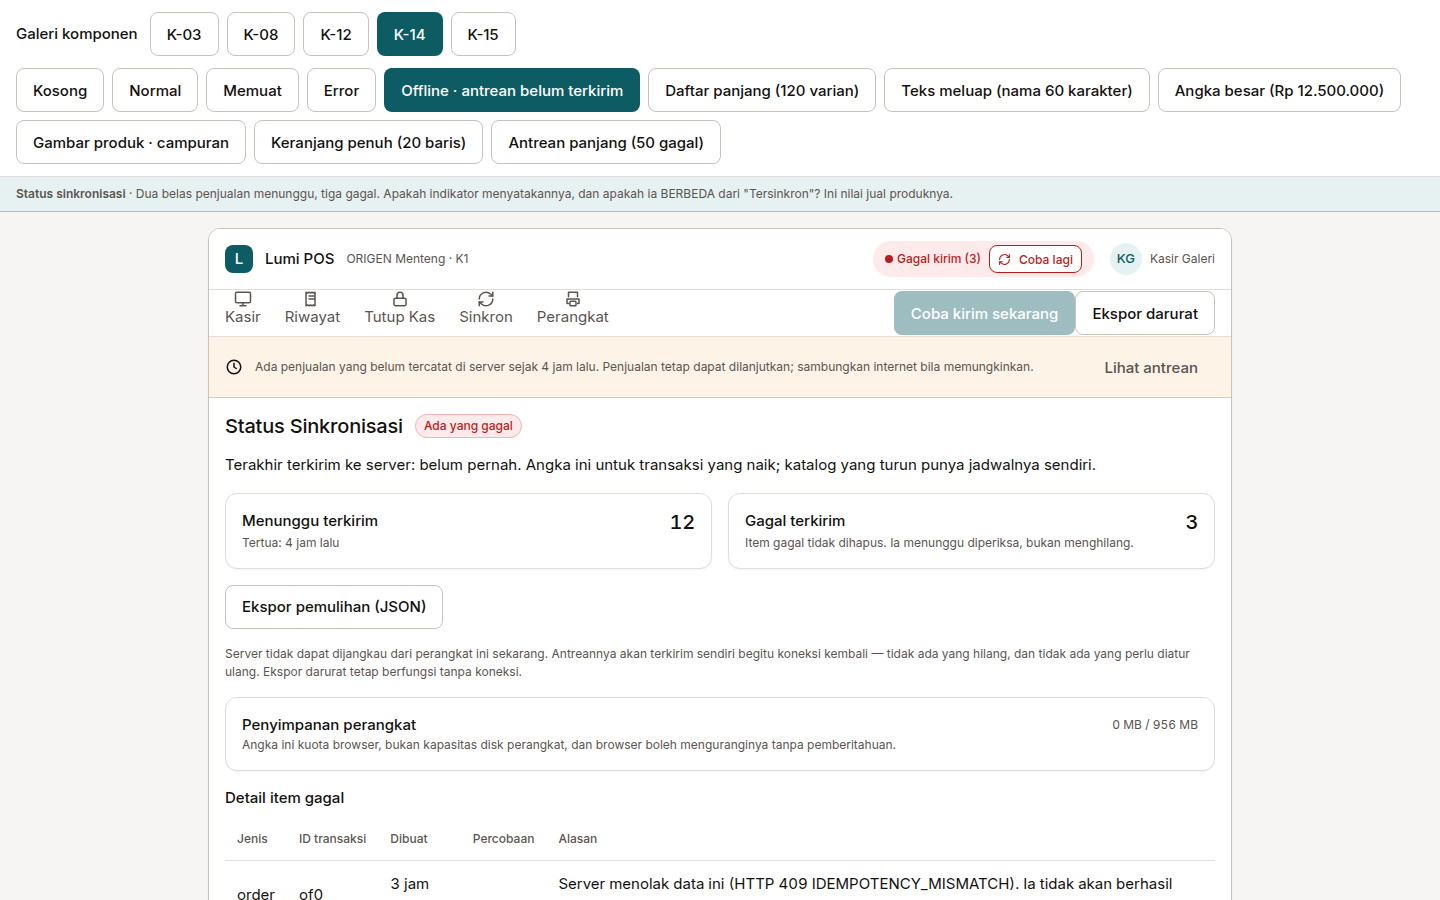
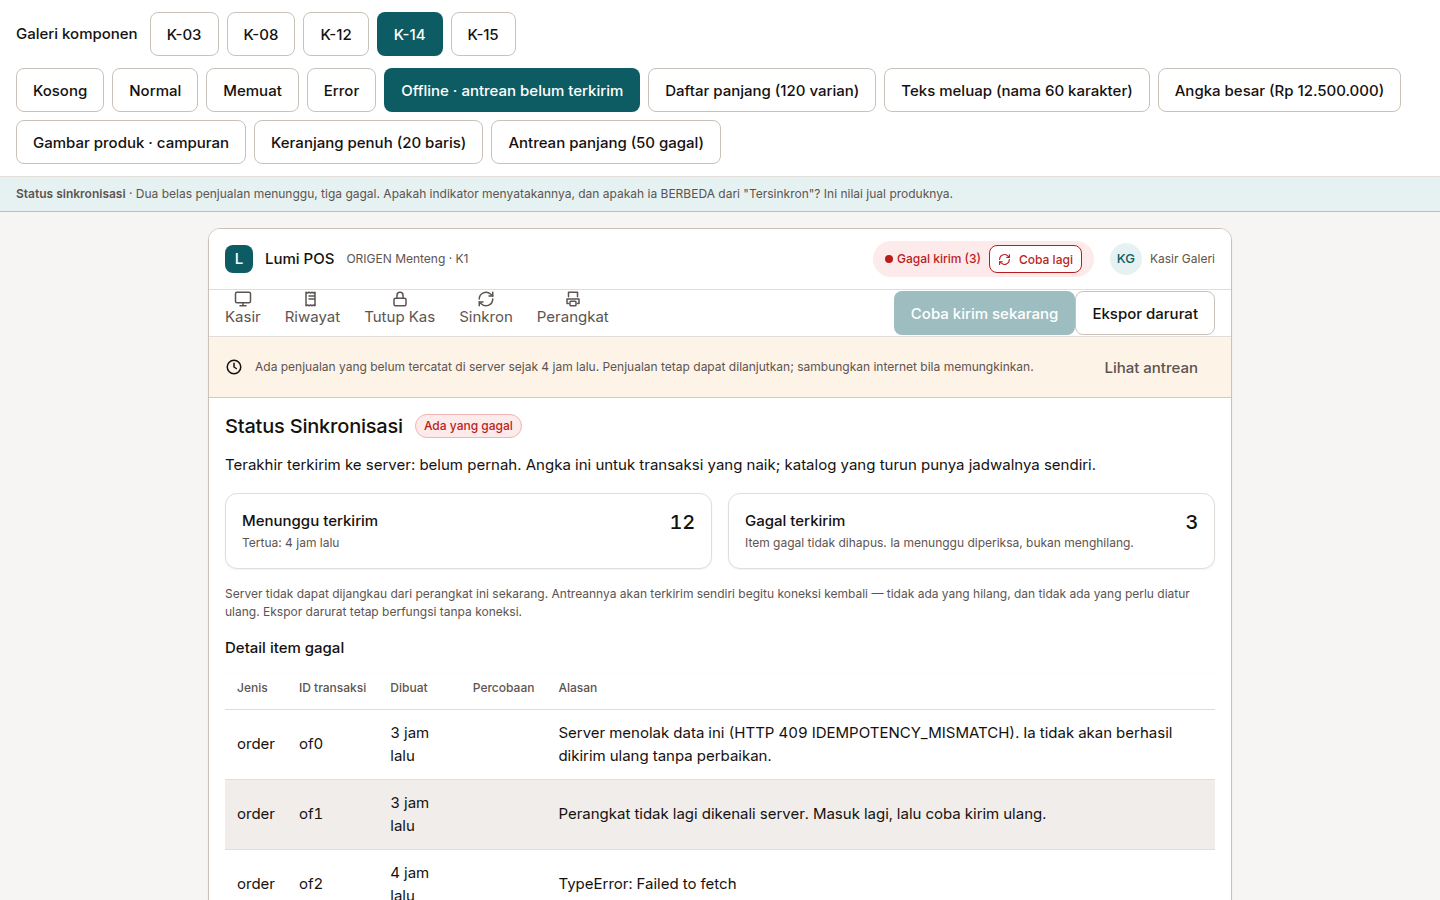
fix(K-14): empat blok diagnostik masuk wilayah gulir, tabel dapat ruangnya
Kasir membuka layar ini untuk membaca item yang gagal, dan yang paling sedikit
ruangnya justru itu. Terukur pada 1280x800: wilayah tabel 102 px dengan kepala
tabel 43 px di antaranya -- NOL baris utuh yang terlihat. Prioritasnya terbalik.

Kartu penyimpanan, baris skema lokal, "Muat ulang angka", dan "Ekspor pemulihan
(JSON)" pindah ke DALAM wilayah gulir, di bawah tabel. Keempatnya diagnostik
atau untuk petugas dukungan; tidak satu pun dibaca kasir saat melayani
pelanggan.

Yang tetap dipaku hanya dua kartu angka. "Menunggu terkirim" dan "Gagal
terkirim" adalah jawaban langsung atas pertanyaan yang kasir bawa ke layar ini,
dan aksi utamanya sudah dilindungi slot bilah nav -- jadi tidak ada lagi yang
hilang saat menggulir.

Hasil: wilayah tabel 102 -> 312 px, baris utuh terlihat 0 -> 3.

PENJAGA DIUBAH DENGAN SENGAJA, bukan dilemahkan supaya lolos. "Blok aksi dan
kartu penyimpanan tidak bergeser" menjadi "kedua kartu angka tidak bergeser".
Tuntutan lamanya berlebihan: tujuan sebenarnya adalah aksi tidak tergulir
keluar, dan aksi utamanya kini dilindungi slot -- bukan oleh posisinya di badan
layar. Kartu penyimpanan justru dipindah karena ia diagnostik. Alasannya
ditulis di komentar penjaganya, bukan hanya di sini.

Penjaga BARU mengunci angkanya: wilayah tabel memuat minimal TIGA baris utuh
pada 1280x800. Tanpa angka, daftar ini menyusut diam-diam setiap kali seseorang
menambahkan satu blok di atasnya, dan tangkapan layarnya tetap terlihat wajar --
[…]

Changed region(s): [[0.1562, 0.7156, 0.8438, 1.0], [0.3438, 0.9022, 0.8125, 0.9956], [0.1562, 0.6533, 0.8125, 0.6844]]

diff --git a/tests/kasir-dom/k14-tata-letak.test.js b/tests/kasir-dom/k14-tata-letak.test.js
@@ -20,18 +20,27 @@
 //    memakan isi K-14 tanpa satu pun penjaga menyala. Diukur di KELIMA layar,
 //    karena slotnya milik layar dan setiap layar dapat merusaknya sendiri.
 //
-// 2. BLOK AKSI DAN KARTU PENYIMPANAN TIDAK BERGESER. Bentuk yang sama dengan
-//    P8 di K-06, dengan satu perbedaan yang menentukan: di K-06 isi panjangnya
-//    dibuat lewat interaksi, di sini lewat FIXTURE. `antrean-panjang` memuat
-//    tepat 50 item gagal — `PER_HALAMAN` — yaitu isi maksimum yang K-14 dapat
-//    tampilkan sekaligus.
+// 2. KEDUA KARTU ANGKA TIDAK BERGESER. Bentuk yang sama dengan P8 di K-06,
+//    dengan satu perbedaan yang menentukan: di K-06 isi panjangnya dibuat lewat
+//    interaksi, di sini lewat FIXTURE. `antrean-panjang` memuat tepat 50 item
+//    gagal — `PER_HALAMAN` — yaitu isi maksimum yang K-14 dapat tampilkan
+//    sekaligus.
 //
 //    ⛔ Diukur SESUDAH digulirkan sampai mentok, bukan pada posisi awal. Pada
-//    `scrollTop = 0` blok aksi dan kartu penyimpanan berada di posisi yang sama
-//    apa pun panjang tabelnya — keduanya berdiri DI ATAS tabel. Gejalanya baru
-//    muncul saat kasir menggulir untuk membaca tabelnya, dan penjaga yang
-//    berhenti di posisi awal hijau pada satu-satunya keadaan yang tidak pernah
-//    bermasalah.
+//    `scrollTop = 0` kartu angka berada di posisi yang sama apa pun panjang
+//    tabelnya — keduanya berdiri DI ATAS tabel. Gejalanya baru muncul saat
+//    kasir menggulir untuk membaca tabelnya, dan penjaga yang berhenti di
+//    posisi awal hijau pada satu-satunya keadaan yang tidak pernah bermasalah.
+//
+//    ⛔ Tuntutannya menyempit 21 September 2026: semula blok aksi DAN kartu
+//    penyimpanan. Itu berlebihan — aksi utamanya kini dilindungi slot bilah
+//    nav, dan kartu penyimpanan justru DIPINDAH ke dalam wilayah gulir karena
+//    ia diagnostik. Alasan lengkapnya ada di komentar testnya.
+//
+// 2b. WILAYAH TABEL MEMUAT MINIMAL TIGA BARIS UTUH. Angka yang dikunci, sejajar
+//    dengan ">= 12 kartu" di K-03: tanpa angka, daftar ini menyusut diam-diam
+//    setiap kali seseorang menambahkan satu blok di atasnya, dan tangkapan
+//    layarnya tetap terlihat wajar.
 //
 // 3. SATU WILAYAH YANG MENGGULIR, DAN IA TABELNYA.
 //
@@ -229,13 +238,10 @@ async function posisiSesudahGulir(keadaan) {
     for (const p of penggulir) p.scrollTop = p.scrollHeight;
 
     const teks = (e) => (e?.innerText ?? '').replace(/\s+/g, ' ');
-    const kartu = [...document.querySelectorAll('.kasir-konten .card')].find((c) =>
-      teks(c).startsWith('Penyimpanan perangkat')
-    );
-    const tombolEkspor = [...document.querySelectorAll('.kasir-konten button')].find((b) =>
-      teks(b).startsWith('Ekspor pemulihan')
-    );
-    const blokAksi = tombolEkspor?.closest('.row');
+    const kartuAngka = [...document.querySelectorAll('.kasir-sync-angka .card')].map((c) => ({
+      nama: teks(c).slice(0, 24),
+      el: c,
+    }));
     /* ⛔ Diukur RELATIF terhadap `.kasir-konten`, bukan terhadap viewport, dan
        itu bukan kerapian: bar galeri di atas panggung memuat kalimat `tanya`
        milik skenario, dan kalimat `antrean-panjang` lebih panjang sehingga ia
@@ -255,12 +261,20 @@ async function posisiSesudahGulir(keadaan) {
         bottomLayar: +r.bottom.toFixed(1),
       };
     };
+    const daftar = document.querySelector('.kasir-sync-daftar');
+    const kepala = document.querySelector('.kasir-sync-daftar thead');
+    const rd = daftar?.getBoundingClientRect();
     return {
-      kartuPenyimpanan: kotak(kartu),
-      blokAksi: kotak(blokAksi),
+      kartuAngka: kartuAngka.map((k) => ({ nama: k.nama, ...kotak(k.el) })),
       barisTabel: document.querySelectorAll('.kasir-konten table tbody tr').length,
       tinggiLayar: window.innerHeight,
       jumlahPenggulir: penggulir.length,
+      daftarTinggi: rd ? Math.round(rd.height) : 0,
+      kepalaTinggi: kepala ? Math.round(kepala.getBoundingClientRect().height) : 0,
+      barisTinggi: (() => {
+        const tr = document.querySelector('.kasir-sync-daftar tbody tr');
+        return tr ? Math.round(tr.getBoundingClientRect().height) : 0;
+      })(),
     };
   });
   await hal.close();
@@ -268,60 +282,103 @@ async function posisiSesudahGulir(keadaan) {
   return hasil;
 }
 
-test('⛔ blok aksi dan kartu penyimpanan tidak bergeser antara 3 dan 50 baris gagal', async () => {
+/** `IA:62` sejajar: angka yang dikunci, bukan perasaan bahwa "cukup". */
+const MINIMAL_BARIS_TERLIHAT = 3;
+
+test('⛔ kedua kartu angka tidak bergeser antara 3 dan 50 baris gagal', async () => {
+  /* ⛔ TUNTUTANNYA BERUBAH, dan ini bukan pelemahan supaya lolos.
+  
+     Versi 21 September menuntut blok aksi DAN kartu penyimpanan tidak
+     bergeser. Tuntutan itu berlebihan: tujuan sebenarnya adalah aksi tidak
+     tergulir keluar, dan aksi utamanya sekarang hidup di slot bilah nav —
+     dilindungi penjaga pertama di berkas ini, bukan oleh posisinya di badan
+     layar.
+  
+     Kartu penyimpanan justru DIPINDAH ke dalam wilayah gulir 21 September
+     2026, bersama baris skema lokal, "Muat ulang angka", dan "Ekspor pemulihan
+     (JSON)". Keempatnya diagnostik atau untuk petugas dukungan; tidak satu pun
+     dibaca kasir saat melayani pelanggan. Memakunya di atas tabel menyisakan
+     102 px untuk daftar — dengan kepala tabel 43 px di antaranya, NOL baris
+     utuh yang terlihat. Kasir membuka layar ini untuk membaca item yang gagal.
+  
+     Yang tetap dipaku hanya dua kartu angka: "Menunggu terkirim" dan "Gagal
+     terkirim" adalah jawaban langsung atas pertanyaan yang kasir bawa ke sini. */
   const pendek = await posisiSesudahGulir('offline');
   const panjang = await posisiSesudahGulir('antrean-panjang');
 
-  /* ⛔ SENTINEL DI DEPAN, bukan di belakang — dan urutannya dipilih dengan
-     sengaja, berbeda dari P8 di K-06. Di sana sentinel di belakang karena isi
-     ujinya dibangun lewat interaksi yang dapat gagal separuh jalan; di sini
-     isinya datang dari FIXTURE, jadi fixture yang salah adalah satu-satunya
-     cara test ini dapat hijau karena hampa. Tiga lawan lima puluh diperiksa
-     sebelum apa pun diukur. */
-  assert.equal(pendek.barisTabel, 3, `fixture \`offline\` seharusnya 3 baris gagal.`);
+  /* ⛔ SENTINEL DI DEPAN, berbeda dari P8 di K-06. Di sana sentinel di belakang
+     karena isi ujinya dibangun lewat interaksi yang dapat gagal separuh jalan;
+     di sini isinya datang dari FIXTURE, jadi fixture yang salah adalah
+     satu-satunya cara test ini dapat hijau karena hampa. */
+  assert.equal(pendek.barisTabel, 3, 'fixture `offline` seharusnya 3 baris gagal.');
   assert.equal(
     panjang.barisTabel,
     50,
     'fixture `antrean-panjang` seharusnya 50 baris gagal — satu halaman penuh ' +
-      '(`PER_HALAMAN`). Tanpa itu tidak ada yang mendorong blok aksi, dan penjaga ' +
+      '(`PER_HALAMAN`). Tanpa itu tidak ada yang mendorong apa pun, dan penjaga ' +
       'ini tidak menguji apa pun.'
   );
 
-  assert.ok(pendek.blokAksi && panjang.blokAksi, 'blok aksi tidak ditemukan di DOM.');
-  assert.ok(
-    pendek.kartuPenyimpanan && panjang.kartuPenyimpanan,
-    'kartu "Penyimpanan perangkat" tidak ditemukan di DOM.'
-  );
-
   assert.equal(
-    panjang.blokAksi.top,
-    pendek.blokAksi.top,
-    `blok aksi bergeser ${(panjang.blokAksi.top - pendek.blokAksi.top).toFixed(1)} px ` +
-      `(${pendek.blokAksi.top} → ${panjang.blokAksi.top}) setelah tabel digulirkan ` +
-      'sampai mentok.\n  Tabel 50 baris menggulirkan SELURUH layar, bukan dirinya ' +
-      'sendiri, jadi aksi dan kartu di atasnya ikut terbawa keluar viewport.'
+    pendek.kartuAngka.length,
+    2,
+    `kedua kartu angka tidak ditemukan di \`.kasir-sync-angka\`; ditemukan ` +
+      `${pendek.kartuAngka.length}.`
   );
 
-  assert.equal(
-    panjang.kartuPenyimpanan.top,
-    pendek.kartuPenyimpanan.top,
-    'kartu "Penyimpanan perangkat" bergeser ' +
-      `${(panjang.kartuPenyimpanan.top - pendek.kartuPenyimpanan.top).toFixed(1)} px ` +
-      `(${pendek.kartuPenyimpanan.top} → ${panjang.kartuPenyimpanan.top}).`
-  );
+  for (let i = 0; i < pendek.kartuAngka.length; i += 1) {
+    const a = pendek.kartuAngka[i];
+    const b = panjang.kartuAngka[i];
+    assert.equal(
+      b.top,
+      a.top,
+      `kartu angka "${a.nama}" bergeser ${(b.top - a.top).toFixed(1)} px ` +
+        `(${a.top} → ${b.top}) setelah tabel digulirkan sampai mentok.\n` +
+        '  Tabel 50 baris menggulirkan SELURUH layar, bukan dirinya sendiri, jadi ' +
+        'kartu di atasnya ikut terbawa keluar viewport.'
+    );
 
-  /* ⛔ Dan keduanya benar-benar TERLIHAT, bukan sekadar tidak bergeser. Blok
-     yang sama-sama berada di luar layar pada kedua fixture juga tidak bergeser. */
-  for (const [nama, k] of [
-    ['blok aksi', panjang.blokAksi],
-    ['kartu penyimpanan', panjang.kartuPenyimpanan],
-  ]) {
+    /* ⛔ Dan ia benar-benar TERLIHAT, bukan sekadar tidak bergeser. Kartu yang
+       sama-sama berada di luar layar pada kedua fixture juga tidak bergeser. */
     assert.ok(
-      k.topLayar >= 0 && k.bottomLayar <= panjang.tinggiLayar,
-      `${nama} berada di luar viewport pada 50 baris: top ${k.topLayar}, ` +
-        `bottom ${k.bottomLayar}, layar ${panjang.tinggiLayar}.`
+      b.topLayar >= 0 && b.bottomLayar <= panjang.tinggiLayar,
+      `kartu angka "${a.nama}" berada di luar viewport pada 50 baris: ` +
+        `top ${b.topLayar}, bottom ${b.bottomLayar}, layar ${panjang.tinggiLayar}.`
     );
   }
+});
+
+test('⛔ wilayah tabel memuat minimal tiga baris utuh pada 1280x800', async () => {
+  /* ⛔ ANGKA YANG DIKUNCI, bukan perasaan bahwa ruangnya "cukup".
+  
+     Tanpa angka, tabel ini dapat menyusut lagi diam-diam: siapa pun yang
+     menambahkan satu kartu di atasnya memakan ruang daftar, dan tangkapan
+     layarnya tetap terlihat wajar — persis bentuk kegagalan yang membuat
+     anggaran chrome K-03 perlu dijaga angka (`IA:62`).
+  
+     Tiga adalah hasil PENGUKURAN sesudah keempat blok diagnostik pindah ke
+     dalam wilayah gulir: daftar 312 px, kepala tabel 43 px, baris 70 px →
+     (312 − 43) / 70 = 3,8. Sebelum pemindahan: 102 px, dan kepala tabel
+     sendirian sudah 43 px — NOL baris utuh.
+  
+     ⛔ Kepala tabel dihitung sebagai beban, bukan diabaikan. Ia tidak sticky,
+     jadi ia memakan ruang daftar pada posisi awal — dan posisi awal adalah apa
+     yang kasir lihat saat membuka layar. */
+  const r = await posisiSesudahGulir('antrean-panjang');
+
+  assert.equal(r.barisTabel, 50, 'fixture `antrean-panjang` seharusnya 50 baris gagal.');
+  assert.ok(r.barisTinggi > 0, 'tinggi baris tabel terukur nol — tabelnya tidak dirender.');
+
+  const muat = Math.floor((r.daftarTinggi - r.kepalaTinggi) / r.barisTinggi);
+  assert.ok(
+    muat >= MINIMAL_BARIS_TERLIHAT,
+    `hanya ${muat} baris utuh yang muat di wilayah tabel — dituntut minimal ` +
+      `${MINIMAL_BARIS_TERLIHAT}.\n` +
+      `  daftar ${r.daftarTinggi}px · kepala tabel ${r.kepalaTinggi}px · ` +
+      `baris ${r.barisTinggi}px\n` +
+      '  Yang paling sering menyebabkannya: satu blok baru dipaku di atas tabel. ' +
+      'Kartu angka yang dipaku ada DUA dan itu disengaja; sisanya milik wilayah gulir.'
+  );
 });
 
 test('⛔ K-14 punya TEPAT SATU wilayah yang menggulir, dan ia tabel item gagal', async () => {

diff --git a/apps/kasir/src/layar/StatusSinkronisasi.tsx b/apps/kasir/src/layar/StatusSinkronisasi.tsx
@@ -387,30 +387,9 @@ export function StatusSinkronisasi() {
         </Tombol>
       </PortalAksi>
 
-      <div className="row" style={{ gap: 'var(--space-3)' }}>
-        {/* ⛔ DUA ekspor, bukan satu yang serba bisa. Yang pertama dibaca
-            manusia (`spec-h:263`); yang kedua dibaca mesin dan dapat dikirim
-            ulang. Satu berkas yang mencoba keduanya akan buruk di keduanya. */}
-        <Tombol varian="secondary" onClick={eksporPemulihan}>
-          Ekspor pemulihan (JSON)
-        </Tombol>
-      </div>
       {!siapKirim && <p className="t-caption">{ALASAN_TAK_SIAP(terdaftar, jangkauan)}</p>}
 
       {pesan && <p className="t-caption">{pesan}</p>}
-
-      <Card>
-        <div className="row between">
-          <span className="t-body-md">Penyimpanan perangkat</span>
-          <span className="t-caption num">
-            {formatUkuran(penyimpanan.dipakai)} / {formatUkuran(penyimpanan.kuota)}
-          </span>
-        </div>
-        <div className="t-caption">
-          Angka ini kuota browser, bukan kapasitas disk perangkat, dan browser boleh
-          menguranginya tanpa pemberitahuan.
-        </div>
-      </Card>
 
       {/* ⛔ Bagian inilah yang MENGGULIR, dan hanya bagian ini.
 
@@ -451,6 +430,56 @@ export function StatusSinkronisasi() {
             )
           }
         />
+
+          {/* ⛔ EMPAT blok diagnostik, DI DALAM wilayah gulir dan di bawah
+              tabelnya, 21 September 2026.
+
+              Sebelum ini keempatnya dipaku di atas tabel, dan akibatnya diukur:
+              wilayah tabel tinggal 102 px dengan kepala tabel 43 px di
+              antaranya — NOL baris utuh yang terlihat pada 1280x800. Kasir
+              membuka layar ini untuk membaca item yang gagal, dan yang paling
+              sedikit ruangnya justru itu. Prioritasnya terbalik.
+
+              ⛔ Yang TETAP dipaku hanya dua kartu angka. Keduanya jawaban
+              langsung atas pertanyaan yang kasir bawa ke layar ini — "berapa
+              yang belum sampai" — dan aksi utamanya sudah dilindungi slot
+              bilah nav, jadi tidak ada lagi yang hilang saat menggulir.
+
+              Keempat blok ini diagnostik atau untuk petugas dukungan: kuota
+              browser, ekspor yang dapat diputar ulang, keputusan migrasi skema,
+              dan tombol muat ulang. Tidak satu pun dibaca kasir saat melayani
+              pelanggan. */}
+          <div className="stack kasir-sync-diagnostik" style={{ gap: 'var(--space-4)' }}>
+            <Card>
+              <div className="row between">
+                <span className="t-body-md">Penyimpanan perangkat</span>
+                <span className="t-caption num">
+                  {formatUkuran(penyimpanan.dipakai)} / {formatUkuran(penyimpanan.kuota)}
+                </span>
+              </div>
+              <div className="t-caption">
+                Angka ini kuota browser, bukan kapasitas disk perangkat, dan browser boleh
+                menguranginya tanpa pemberitahuan.
+              </div>
+            </Card>
+
+            {/* ⛔ DUA ekspor, bukan satu yang serba bisa. Yang pertama dibaca
+                manusia (`spec-h:263`) dan ada di slot bilah nav; yang kedua
+                dibaca mesin dan dapat dikirim ulang. Satu berkas yang mencoba
+                keduanya akan buruk di keduanya. */}
+            <div className="row" style={{ gap: 'var(--space-3)' }}>
+              <Tombol varian="secondary" onClick={eksporPemulihan}>
+                Ekspor pemulihan (JSON)
+              </Tombol>
+            </div>
+
+            <p className="t-caption">
+              Skema lokal: {keputusanMigrasi.alasan}{' '}
+              <Tombol varian="secondary" onClick={muatUlang}>
+                Muat ulang angka
+              </Tombol>
+            </p>
+          </div>
         </div>
         {gagal.total > PER_HALAMAN && (
           <div className="row" style={{ gap: 'var(--space-3)' }}>
@@ -471,12 +500,6 @@ export function StatusSinkronisasi() {
         )}
       </div>
 
-      <p className="t-caption">
-        Skema lokal: {keputusanMigrasi.alasan}{' '}
-        <Tombol varian="secondary" onClick={muatUlang}>
-          Muat ulang angka
-        </Tombol>
-      </p>
     </div>
   );
 }

diff --git a/apps/kasir/src/kasir.css b/apps/kasir/src/kasir.css
@@ -753,10 +753,24 @@
   list-style: none;
   padding: 0;
   margin: 0;
-  /* `min-height: 0` WAJIB di sini. Tanpanya anak flex menolak mengecil di
-     bawah tinggi kontennya, `overflow-y` tidak pernah menyala, dan daftar
-     tetap mendorong subtotal keluar layar — persis cacat yang blok ini
-     perbaiki. Ia tidak menghasilkan error; ia hanya tidak bekerja. */
+  /* ⛔ `min-height: 0` di SINI tidak menahan beban apa pun, dan itu DIUKUR —
+     21 September 2026, lewat sabotase, bukan disimpulkan dari bentuknya.
+
+     Komentar ini sebelumnya berbunyi "WAJIB di sini: tanpanya anak flex
+     menolak mengecil di bawah tinggi kontennya". Klaim itu keliru. Melepas
+     deklarasi ini membuat KESEPULUH penjaga K-03 dan K-06 tetap hijau,
+     termasuk anggaran chrome `IA:62` dan P8.
+
+     Sebabnya spesifikasi flexbox: ukuran minimum otomatis (`min-height: auto`)
+     hanya berlaku bila `overflow` bernilai `visible`, dan blok ini `overflow-y:
+     auto` — minimumnya sudah nol dengan sendirinya. Yang menahan beban adalah
+     `min-height: 0` pada leluhurnya yang `overflow: visible`.
+
+     Deklarasinya DIPERTAHANKAN, bukan dihapus: ia benar sebagai pernyataan
+     niat, dan menghapusnya menuntut pembuktian bahwa tidak ada leluhur yang
+     kelak berubah `overflow`-nya. Yang diperbaiki komentarnya, supaya orang
+     berikutnya tidak mengira baris ini yang bekerja lalu menghapus yang benar.
+     Bentuk yang sama sudah dicatat di `.kasir-sync-daftar` untuk K-14. */
   flex: 1;
   min-height: 0;
   overflow-y: auto;
